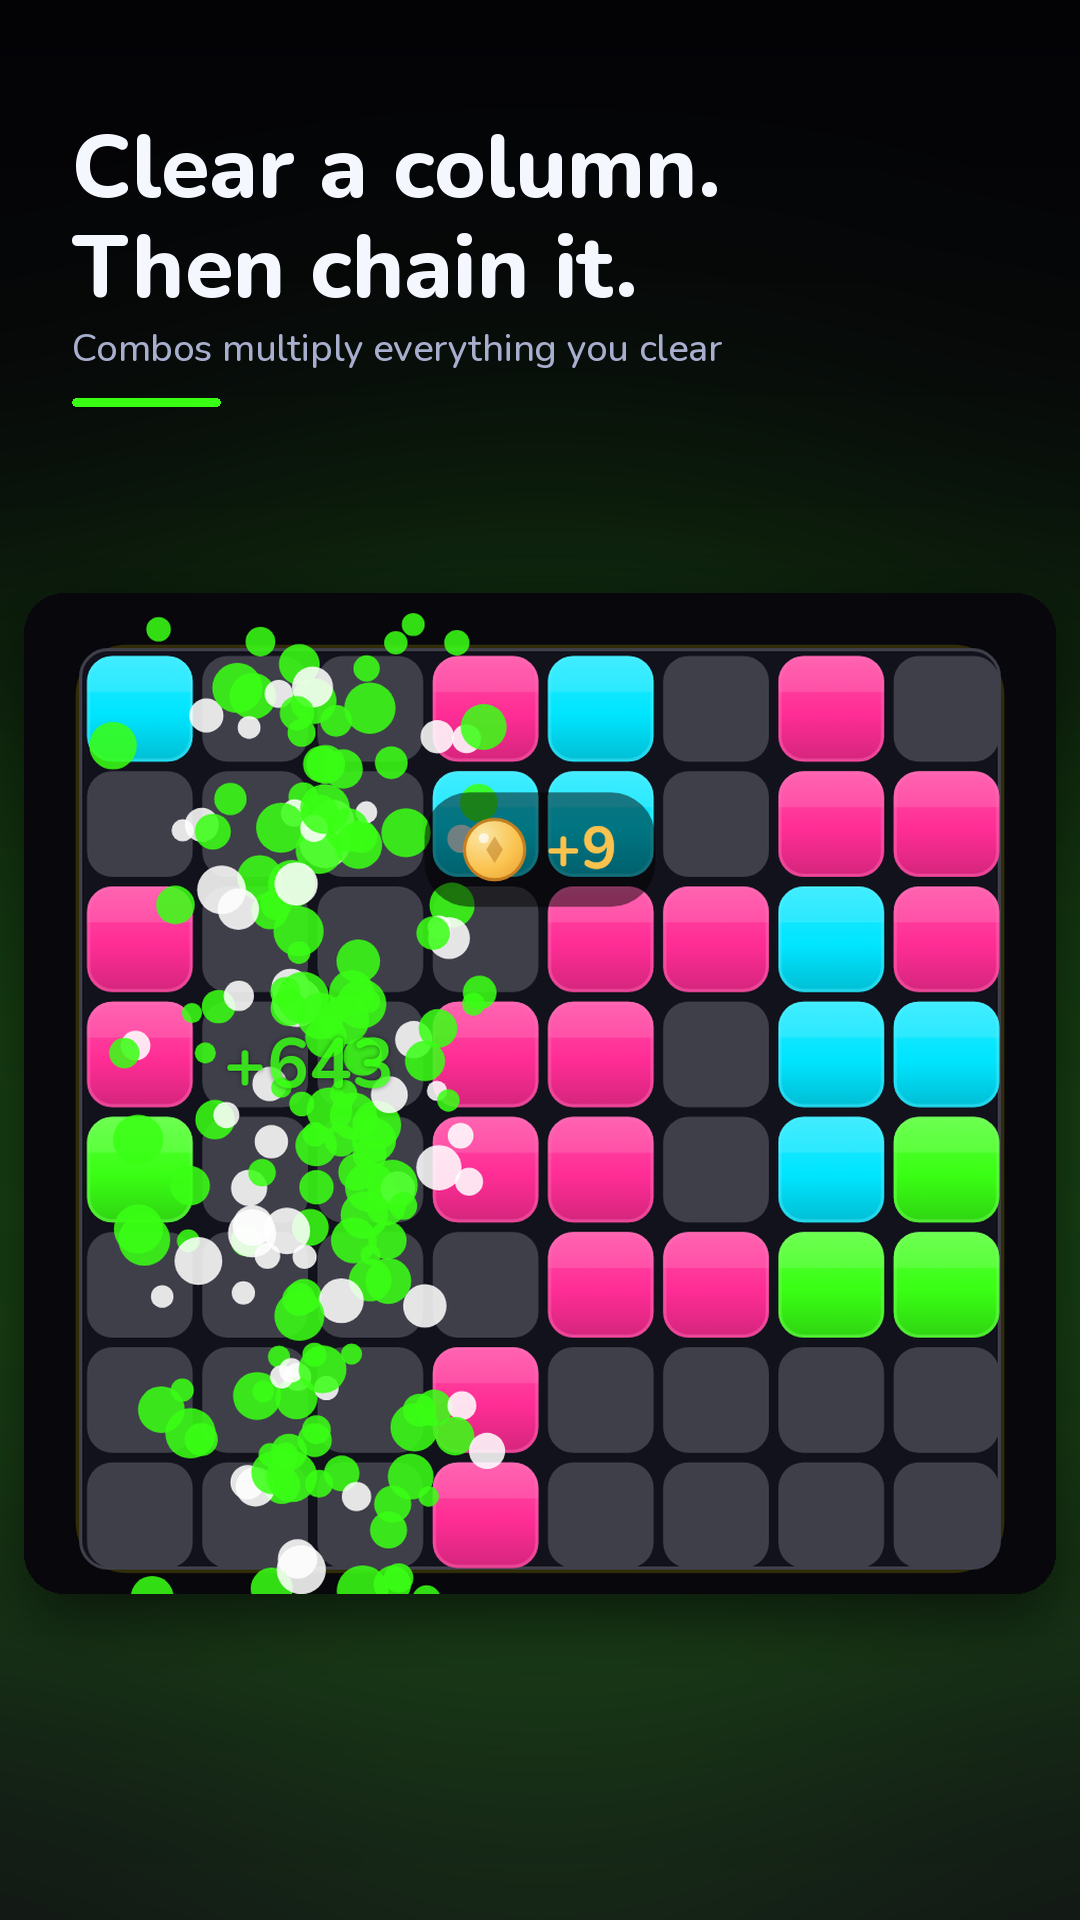
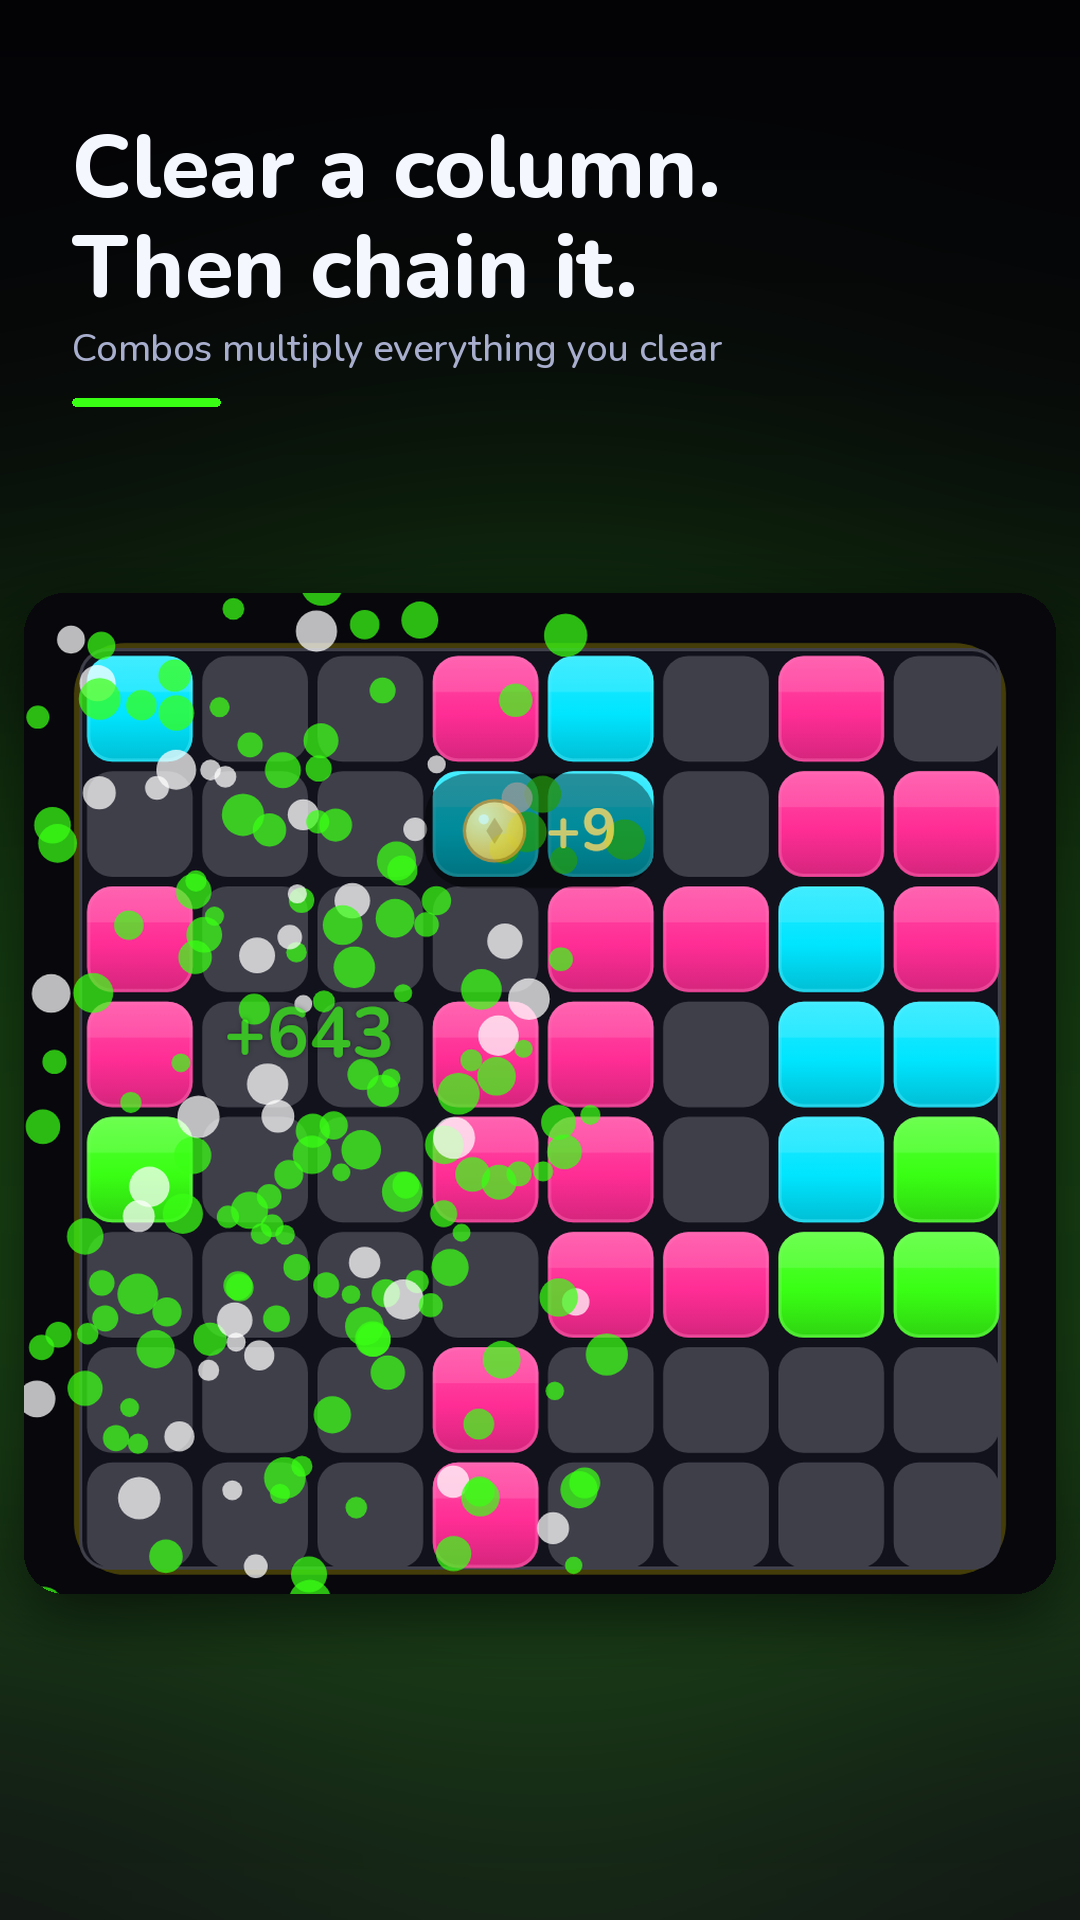
Capture the store screenshots after the burst, not inside it
The hero screenshot promises "Fill a line. Watch it go." and then showed
a board under a curtain of particles, with the cleared row not legible
and the score popup half covered. The capture was taken at 150ms, which
is the burst at its densest.

At 300ms the particles have thrown outward far enough to read as motion
around the board rather than a veil over it, the blocks are crisp, and
the cleared line is plainly empty. The combo shot gains the most: its
+643 was previously unreadable.

The note in the file estimated the particles had faded by ~250ms. They
have not - they are still clearly visible at 300, which is what makes
this the better frame rather than a compromise between motion and
legibility.

Also a correction to the phase 5 review, recorded in audit/05-aso.md: it
faulted the screenshot for not showing the piece tray. That crop is
deliberate and argued in caption_screenshots.py - a full-screen shot
leaves each block about 16px wide in a search-results thumbnail. I
judged the framing without reading the reasoning behind it; the crop
stays as it is.

Five files re-rendered (the two hero shots in both languages, plus the
daily, which shares the capture path).

flutter analyze clean, 527 tests green.

Claude-Session: https://claude.ai/code/session_016qGv6YYkv52DjobxNpUwTo

diff --git a/tool/generate_screenshots.dart b/tool/generate_screenshots.dart
@@ -434,9 +434,19 @@ class _Shot {
   final Duration settle;
 }
 
-/// Peak of the clear animation. Measured against `ClearBurst`, whose particles
-/// are launched on the clear event and fade out over roughly half a second.
-const Duration _burstPeak = Duration(milliseconds: 150);
+/// When to capture the clear animation. Measured against `ClearBurst`, whose
+/// particles launch on the clear event and fade out over roughly half a second.
+///
+/// This was 150 ms, which is the burst at its densest — and dense enough that
+/// the particles covered the board and hid the very thing the caption promises,
+/// a row going away. The score popup was half-covered too. At 300 ms the
+/// particles have thrown outward far enough to read as motion around the board
+/// rather than a veil over it, while the cleared row is plainly empty.
+///
+/// The old note here estimated the particles had faded by ~250 ms. They have
+/// not; they are still clearly visible at 300, which is what makes this the
+/// better frame rather than a compromise.
+const Duration _burstPeak = Duration(milliseconds: 300);
 
 final _shots = <_Shot>[
   // The hook. Dense board, biggest available clear going off, full tray.
